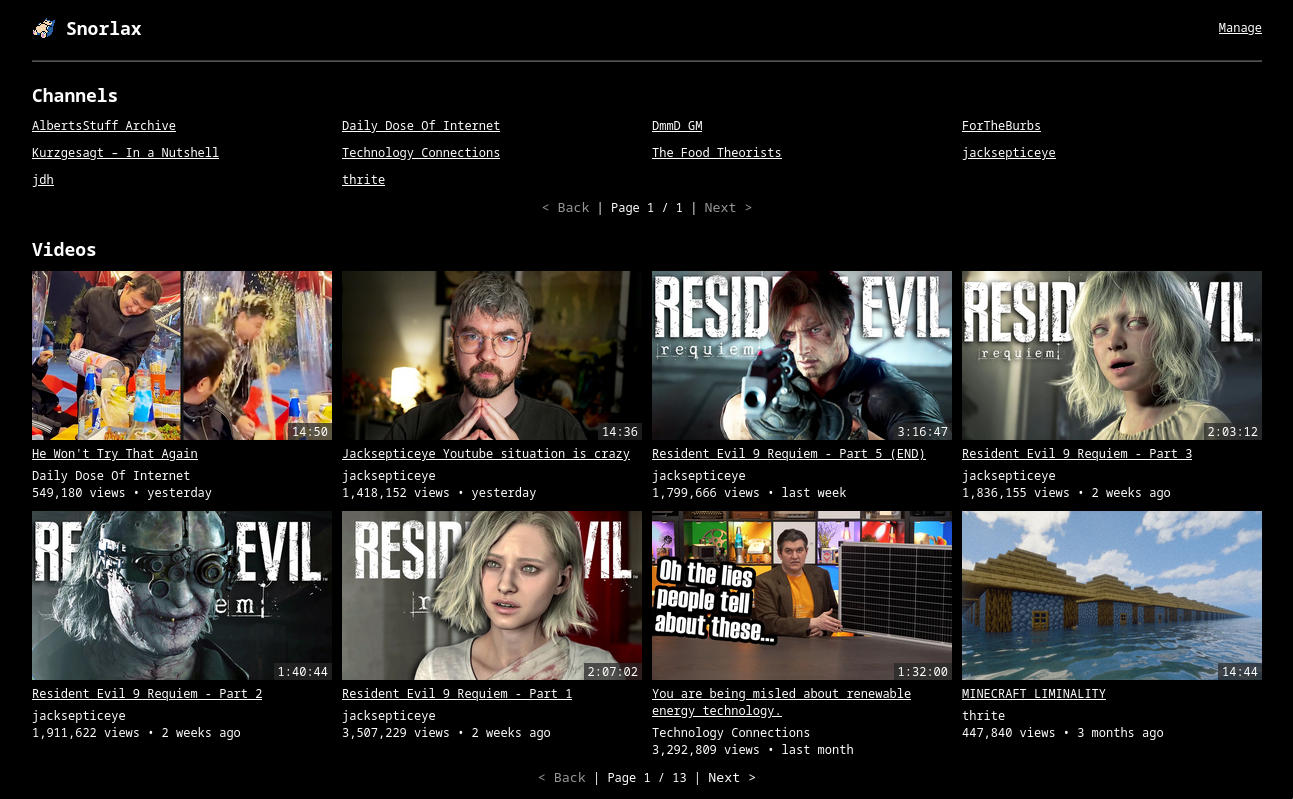
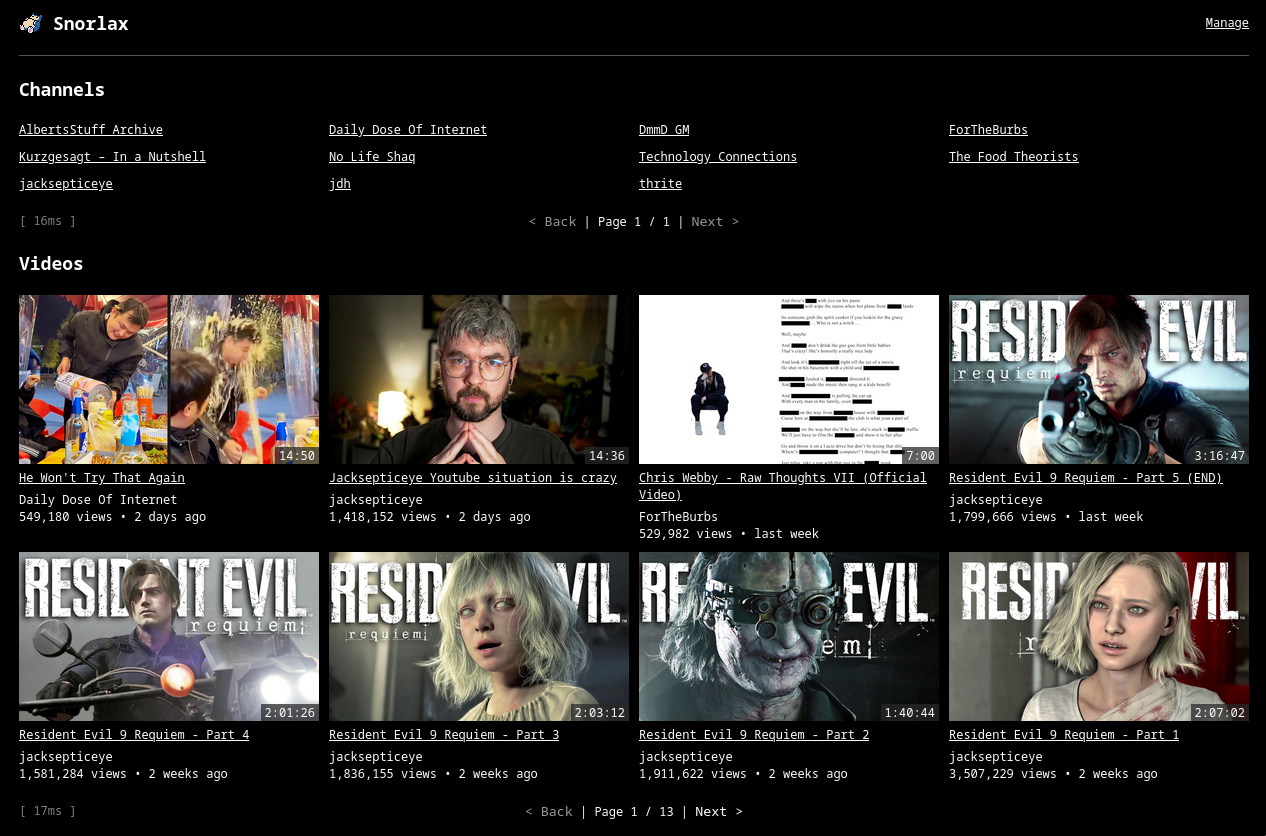
update screenshot and readme

diff --git a/README.md b/README.md
@@ -36,6 +36,7 @@ This name duplication shouldn't be a problem though, other then making the chann
 /v1/video/VIDEO_ID
 /v1/channel/CHANNEL_ID
 /v1/jobs
+/v1/search
 ```
 
 ### Screenshot
@@ -47,4 +48,4 @@ This name duplication shouldn't be a problem though, other then making the chann
 - [x] Migrate /watch to an API endpoint, with JS-based humanize
 - [x] Migrate the ingest methods to custom API endpoints
 - [ ] Ability to set video expiration time, turning Snorlax into something like [cobalt](https://cobalt.tools/)
-- [ ] Search mechanism for channels and videos
+- [x] Search mechanism for ~~channels and~~ videos
